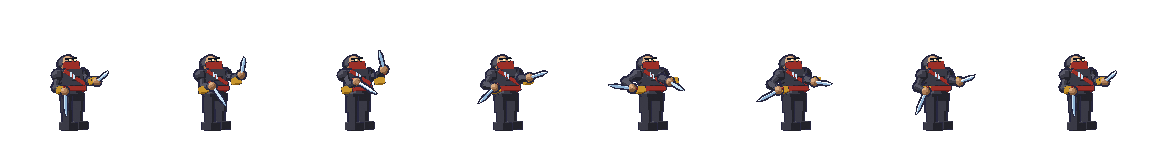
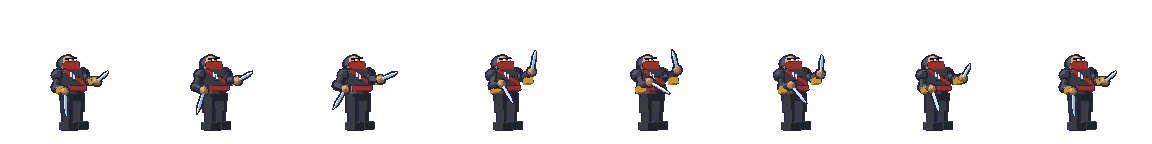
Change two grips so the weapons can actually be swung
A weapon's rest pose decides whether it can be animated at all, and two heroes
were holding theirs in a way no table of angles could rescue. The developer
approved changing both, which changes two signed-off idle sprites.

The paladin carried his warhammer head-UP. That put the head at world z 2.14 with
his shoulder joint at 2.15, so the head sat on the pivot and rotating his arm
spun the hammer about its own head. He now carries it head-down and angled back,
gripping the top of the haft, which is how a maul is held at rest. The head hangs
1.75 from his shoulder and travels 2.5 units from wind-up to impact, landing
forward and low where it used to move 0.58 and finish beside him.

The banneret had one hand on a five-unit polearm, so his attack could only ever
be a one-handed swing of it. Both hands are on it now. The pole came in from
x -0.94 to -0.72 to put it in reach, and -0.72 is the limit: measured against the
head's own span, past about -0.70 the shaft lies across his face. His right arm
reaches 1.3 where it reached 1.0, which the aimed cones absorb.

One more rule paid for on the way. A business end BELOW its pivot inverts the
sign, because rotating about Y sends a point above the pivot forward and a point
below it backward. The head-down hammer and the blade-down daggers both needed
their swing columns negated, and the assassin proves why measuring beats looking:
his blade read +0.41 forward on the WIND-UP frame and -0.92 back on the strike.
[…]

diff --git a/tools/blender/attack_shapes.py b/tools/blender/attack_shapes.py
@@ -129,16 +129,21 @@ CHOP_BLADE = [(0, 0, 0), (0, -22, 0), (0, -38, 0), (0, -14, 0),
 # own upper arm, which is the shoulder joint and the one point a rotation leaves
 # in place, so the pauldron keeps covering it.
 #
+# **A BUSINESS END BELOW ITS PIVOT INVERTS THE SIGN.** Rotating about Y sends a
+# point ABOVE the pivot forward and a point BELOW it backward, so a hammer hanging
+# head-down and a dagger pointing blade-down both need their swing column negated
+# against the table convention. Measure the tip rather than reasoning about it: the
+# assassin's blade read +0.41 forward on his WIND-UP frame and -0.92 back on his
+# strike, which is the whole attack playing in reverse.
+#
 # **The two angles ADD UP, so budget the total.** A hammer carried head-up needs
 # both: the wrist alone is a flick, and the shoulder alone spins the hammer about
 # its own head, because that head sits at world z 2.14 and the shoulder joint is
 # at the same height. Around 115 degrees together puts the head down and in front,
 # where a hammer lands. At 182 it passed straight down and came back up behind
 # him, and the measured path doubled back between two frames.
-HAMMER_WRIST = [(0, 0, 0), (0, -26, 0), (0, -44, 0), (0, 14, 0),
-                (0, 90, 0), (0, 62, 0), (0, 25, 0), (0, 0, 0)]
-HAMMER_SWING = [(0, 0, 0), (-8, -20, -0.06), (-14, -34, -0.10), (-10, -4, 0.06),
-                (-16, 55, 0.30), (-10, 38, 0.20), (-4, 15, 0.07), (0, 0, 0)]
+HAMMER_WRIST = [(0, 0, 0), (0, 18, 0), (0, 30, 0), (0, -8, 0), (0, -52, 0), (0, -36, 0), (0, -14, 0), (0, 0, 0)]
+HAMMER_SWING = [(0, 0, 0), (-8, 12, -0.06), (-14, 20, -0.1), (-10, 2, 0.06), (-16, -34, 0.3), (-10, -24, 0.2), (-4, -9, 0.07), (0, 0, 0)]
 
 # A BOW DRAW: the STRING HAND ONLY, about its own shoulder. Nothing else moves.
 #
@@ -167,10 +172,8 @@ LOOSE = [(0, 0, 0), (5, -12, -0.06), (9, -22, -0.11), (10, -26, -0.13),
 # with nothing else changing, and it read as him thrusting his pelvis at the enemy
 # (user, 2026-08-02). A body that slides without bending is not lunging. The drive
 # has to come from the arm extending, and the step only underlines it.
-DAGGER_ARM = [(0, 0, 0), (-10, -18, -0.05), (-18, -30, -0.08), (-24, 20, 0.09),
-              (-20, 46, 0.14), (-14, 30, 0.09), (-6, 12, 0.03), (0, 0, 0)]
-DAGGER_WRIST = [(0, 0, 0), (0, -14, 0), (0, -24, 0), (0, 26, 0),
-                (0, 52, 0), (0, 34, 0), (0, 14, 0), (0, 0, 0)]
+DAGGER_ARM = [(0, 0, 0), (-10, 12, -0.05), (-18, 20, -0.08), (-24, -12, 0.09), (-20, -26, 0.14), (-14, -17, 0.09), (-6, -7, 0.03), (0, 0, 0)]
+DAGGER_WRIST = [(0, 0, 0), (0, 8, 0), (0, 14, 0), (0, -14, 0), (0, -29, 0), (0, -19, 0), (0, -8, 0), (0, 0, 0)]
 
 # ---------------------------------------------------------------------------
 # Three casters who must not move alike

diff --git a/tools/blender/build_hero_paladin.py b/tools/blender/build_hero_paladin.py
@@ -241,23 +241,35 @@ else:
     P.parent_all(hs_root, symbol + radiance)
     roots.append(hs_root)
 
-# ---- the hammer in the low hand, sized to the man ----
-# Written out per tier rather than derived from the haft length. Deriving them
-# put epic's numbers a float's width off the originals, which was enough to
-# change pixels on a sprite that must not change at all.
+# ---- the hammer, carried HEAD-DOWN AND BACK so it can be swung ----
+# **A weapon's rest pose decides whether it can be animated at all** (user
+# approved this change 2026-08-02, after two rejected attack passes). He used to
+# carry it head-up with his fist part way up the haft, which put the head at world
+# z 2.14 and his shoulder joint at 2.15 -- the head sat ON the pivot. Rotating his
+# arm therefore spun the hammer about its own head, and every table of angles read
+# as a wrist flick or a caster's gesture. Measured, the head moved 0.08 units from
+# the shoulder; now it hangs 1.9 from it, so the arm has a lever to swing.
+#
+# The grip is at the TOP of the haft and everything else hangs below it, which is
+# how a maul is actually carried at rest. `rot` leans it back and down so the head
+# clears the legs and the swing has somewhere to come from.
+#
+# Sizes are written out per tier rather than derived from the haft length.
+# Deriving them put epic's numbers a float's width off the originals, which was
+# enough to change pixels on a sprite that must not change at all.
 HAFT, HAFT_Z, HEAD_Z, HEAD = {
     "common":    (1.00, 0.36, 0.90, 0.80),
     "rare":      (1.14, 0.40, 1.02, 0.92),
     "epic":      (1.30, 0.46, 1.16, 1.00),
     "legendary": (1.46, 0.52, 1.30, 1.24),
 }[TIER]
-hm_root = P.make_root(scn, "hammer_root", rot=(0, -14, 0), loc=(-0.56, -0.72, 1.02))
-hammer = [P.add_cyl(scn, "hammerhaft", (0, 0, HAFT_Z), 0.06, HAFT, M["wood"], verts=6),
-          P.add_box(scn, "hammerhead", (0, 0, HEAD_Z),
+hm_root = P.make_root(scn, "hammer_root", rot=(0, 48, 0), loc=(-0.64, -0.65, 1.26))
+hammer = [P.add_cyl(scn, "hammerhaft", (0, 0, -HAFT_Z), 0.06, HAFT, M["wood"], verts=6),
+          P.add_box(scn, "hammerhead", (0, 0, -HEAD_Z),
                     (0.30 * HEAD, 0.28 * HEAD, 0.40 * HEAD), PL, bevel=0.05),
-          P.add_box(scn, "hammerband", (0, 0, HEAD_Z),
+          P.add_box(scn, "hammerband", (0, 0, -HEAD_Z),
                     (0.34 * HEAD, 0.32 * HEAD, 0.10), GI),
-          P.add_box(scn, "hammergrip", (0, 0, -0.14), (0.10, 0.10, 0.24), M["leath"])]
+          P.add_box(scn, "hammergrip", (0, 0, 0.14), (0.10, 0.10, 0.24), M["leath"])]
 P.parent_all(hm_root, hammer)
 roots.append(hm_root)
 

diff --git a/tools/blender/build_hero_banneret.py b/tools/blender/build_hero_banneret.py
@@ -221,11 +221,25 @@ def _arm(side, shoulder, elbow, hand):
             P.add_sphere(scn, "fist" + side, hand, 0.145, CU)]
 
 
-# The left hand grips the pole at chest height rather than at head height. Up at
-# 1.18 the forearm came out 1.7 times the upper arm, and a limb whose halves are
-# that far apart reads as broken however well its caps are buried.
-tors += _arm("L", (-0.58, -0.08, 0.72), (-0.80, -0.34, 0.50), (-0.90, -0.50, 0.95))
-tors += _arm("R", (0.58, -0.08, 0.72), (0.68, -0.34, 0.32), (0.56, -0.64, -0.06))
+# BOTH HANDS ARE ON THE POLE (user asked for two hands, 2026-08-02, and approved
+# the sprite change it costs). His right arm used to hang at his side, which meant
+# his attack could only ever be a one-handed swing of a five-unit polearm.
+#
+# **The pole had to come in for it.** At x -0.94 it stood 1.5 from the right
+# shoulder and his arm reaches about 1.0, so no pose could get that hand onto it.
+# It now sits at -0.72, which is as far in as it can come: measured against the
+# head's own span, anything past about -0.70 puts the shaft across his face. That
+# leaves the right arm reaching 1.3 where it used to reach 1.0, which the aimed
+# cones absorb, and it is close enough for a bent arm to cross the body and grip
+# low. That is the placement the README warns grazes the surcoat --
+# the difference is that a hand is now ON it at two points, so the overlap reads
+# as a grip rather than as a pole laid over the tabard.
+#
+# The left hand grips at chest height rather than at head height. Up at 1.18 the
+# forearm came out 1.7 times the upper arm, and a limb whose halves are that far
+# apart reads as broken however well its caps are buried.
+tors += _arm("L", (-0.58, -0.08, 0.72), (-0.72, -0.34, 0.54), (-0.68, -0.50, 0.95))
+tors += _arm("R", (0.58, -0.08, 0.72), (0.40, -0.48, 0.26), (-0.63, -0.44, 0.34))
 P.parent_all(tors_root, tors + hd_det)
 
 # ---- the banner ----
@@ -272,7 +286,7 @@ POLE_LEN = POLE_TOP - POLE_BUTT
 # x -0.94, not the -0.80 it was: at -0.80 the pole's screen position landed
 # within a couple of pixels of the torso's own edge and grazed the surcoat all
 # the way down. The fist moved out with it, since the hand has to stay on it.
-bn_root = P.make_root(scn, "banner_root", rot=(0, -5, 0), loc=(-0.94, -0.48, BN_ROOT_Z))
+bn_root = P.make_root(scn, "banner_root", rot=(0, -5, 0), loc=(-0.72, -0.48, BN_ROOT_Z))
 banner = [P.add_cyl(scn, "pole", (0, 0, (POLE_TOP + POLE_BUTT) / 2), 0.055, POLE_LEN,
                     POLE_MAT, verts=6),
           P.add_cyl(scn, "socket", (0, 0, POLE_TOP + 0.02), 0.085, 0.18,

diff --git a/tools/blender/attack_roster.py b/tools/blender/attack_roster.py
@@ -151,13 +151,16 @@ ATTACKS = [
     # alone kept it quiet and it would have swung an empty hand.
     # The 192 cell is VERIFIED: rendered 2026-08-02, and the polearm stays inside
     # the frame through the whole swing.
-    # An overhead chop, not the horizontal sweep it had (user, 2026-08-02), driven
-    # arm-then-wrist because the mass is all at the top of a five-unit pole.
-    # **Only his LEFT hand is on the pole**; his right rests at his side in the
-    # approved sprite, so this is a one-handed grip swung two-handed-style.
+    # TWO-HANDED now that both hands are on the pole. Same construction as the
+    # fighter: the arms, both pauldrons and the banner turn as ONE piece about the
+    # midpoint between the shoulder joints so no hand can leave the pole, and that
+    # rotation stays small because it is the one that slides the pauldrons off the
+    # torso. The reach comes from the pole's own pivot at the fists.
     Attack("hero_banneret", "build_hero_banneret",
-           [Swing([("fistL",)], (), "banner_root", frames=A.POLE_HEAD, parent=1),
-            Swing([("^upperL",)], HERO_ARM_L, frames=A.POLE_ARM)],
+           [Swing([("fistL",), ("fistR",)], (), "banner_root",
+                  frames=A.POLE_HEAD, parent=1),
+            Swing([("^upperL",), ("^upperR",)],
+                  HERO_ARM_L + HERO_ARM_R + ("pauldron",), frames=A.POLE_ARM)],
            A.POLE_ARM, cell=224),
     # He SWEEPS: the widest arc of the three staff heroes, and he never steps.
     Attack("hero_frostadept", "build_hero_frostadept",

diff --git a/tools/blender/README.md b/tools/blender/README.md
@@ -516,13 +516,25 @@ total** rather than each one: the paladin's hammer at 182 degrees combined passe
 straight down and came back up behind him, and the measured path doubled back
 between two frames.
 
-**But a weapon whose GRIP is wrong cannot be swung at all.** The paladin carries
-his warhammer head-up, with the head at world z 2.14, his shoulder joint at the
-same height, and his hand low on the haft. That is the lever backwards, and no
-table of angles fixes it: rotating the arm spins the hammer about its own head.
-Measured over a full chop the head drops 1.26 units and still ends beside him
-rather than in front. **Check where a weapon's mass sits relative to the hand
-before animating it**, because the answer may be that the rest pose has to change.
+**A WEAPON'S REST POSE DECIDES WHETHER IT CAN BE ANIMATED AT ALL.** Check where its
+mass sits relative to the hand BEFORE writing any angles, because the answer may be
+that the sprite has to change. Two heroes needed it (user approved both,
+2026-08-02). The paladin carried his warhammer head-up, which put the head at world
+z 2.14 with his shoulder joint at 2.15: the head sat on the pivot, so rotating his
+arm spun the hammer about its own head and no table could help. Carried head-down
+with the grip at the top of the haft, the head hangs 1.75 from the shoulder and
+travels 2.5 units from wind-up to impact. The banneret had one hand on a five-unit
+polearm, so his attack could only ever be one-handed; his pole came in from x -0.94
+to -0.72 for the right arm to reach, and -0.72 is the limit, because past about
+-0.70 the shaft lies across his face.
+
+**A BUSINESS END BELOW ITS PIVOT INVERTS THE SIGN.** Rotating about Y sends a point
+ABOVE the pivot forward and a point BELOW it backward, so a head-down hammer and a
+blade-down dagger both need their swing column negated against the table
+convention. Measure the tip rather than reasoning about it. The assassin's blade
+read +0.41 forward on his WIND-UP frame and -0.92 back on his strike, which is the
+whole attack playing in reverse, and it looked plausible enough in a strip that it
+survived a review.
 
 **A STAFF'S WRIST ROTATION STAYS SMALL.** The hand grips a staff near its middle,
 so turning it about the hand spins it end over end and reads as baton twirling. At
